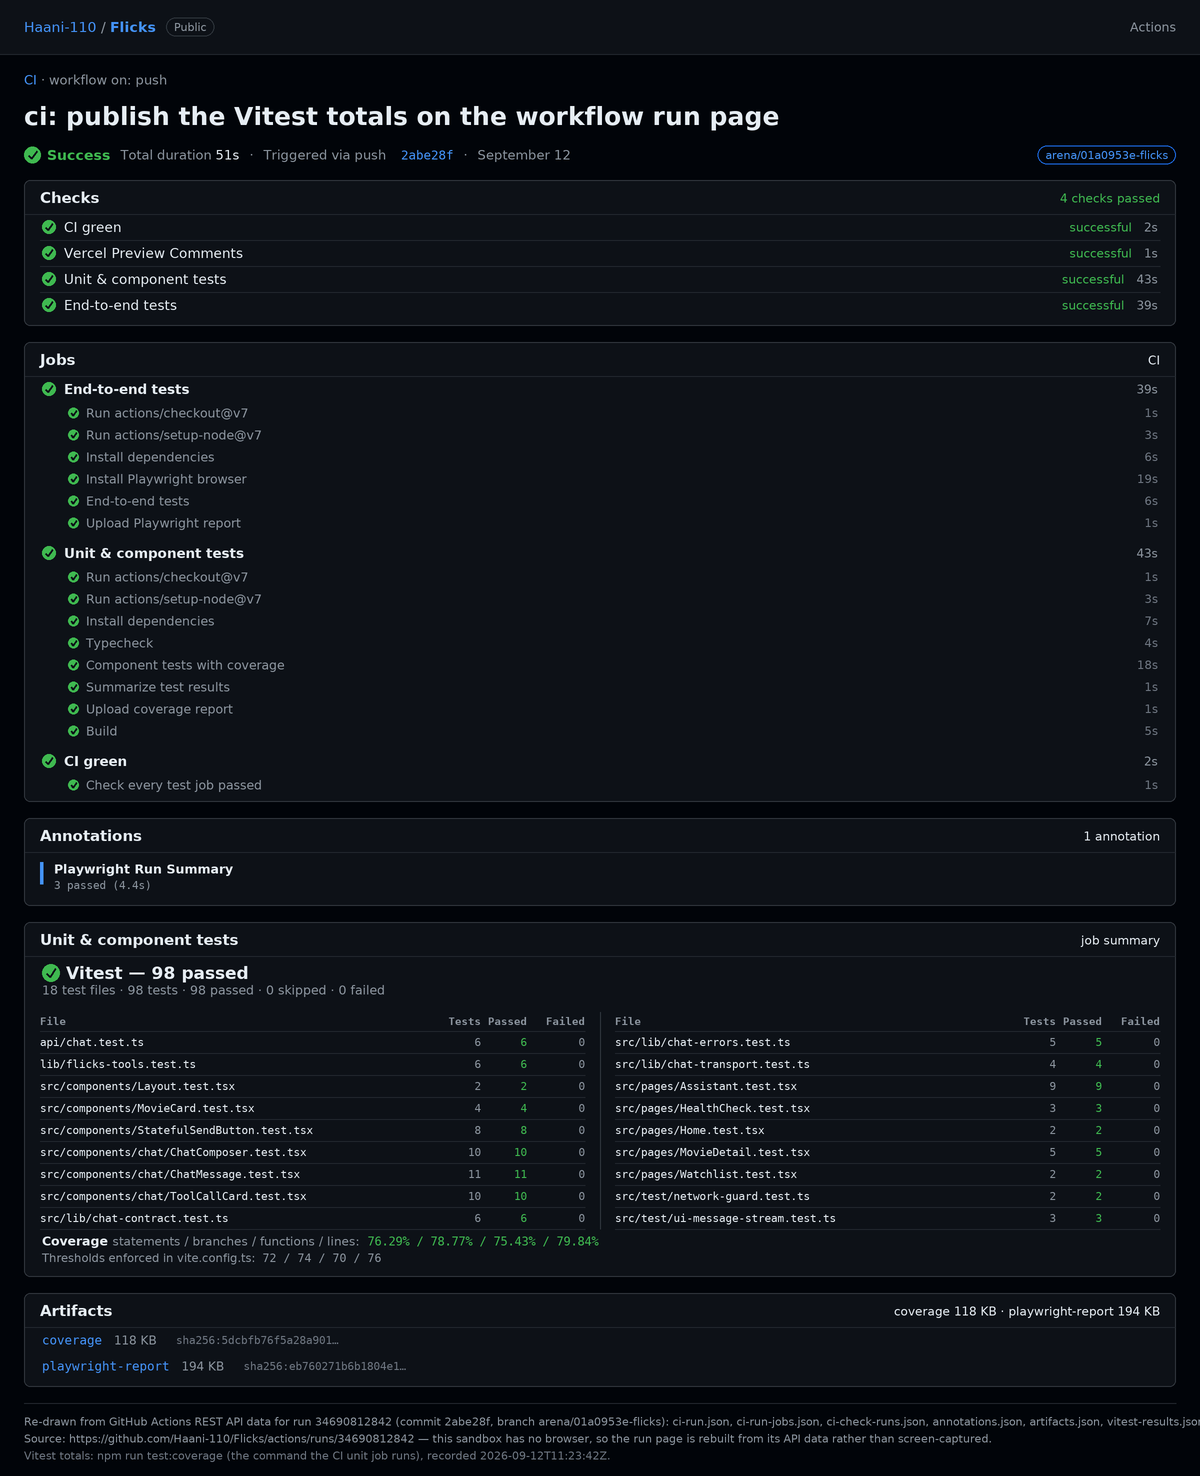
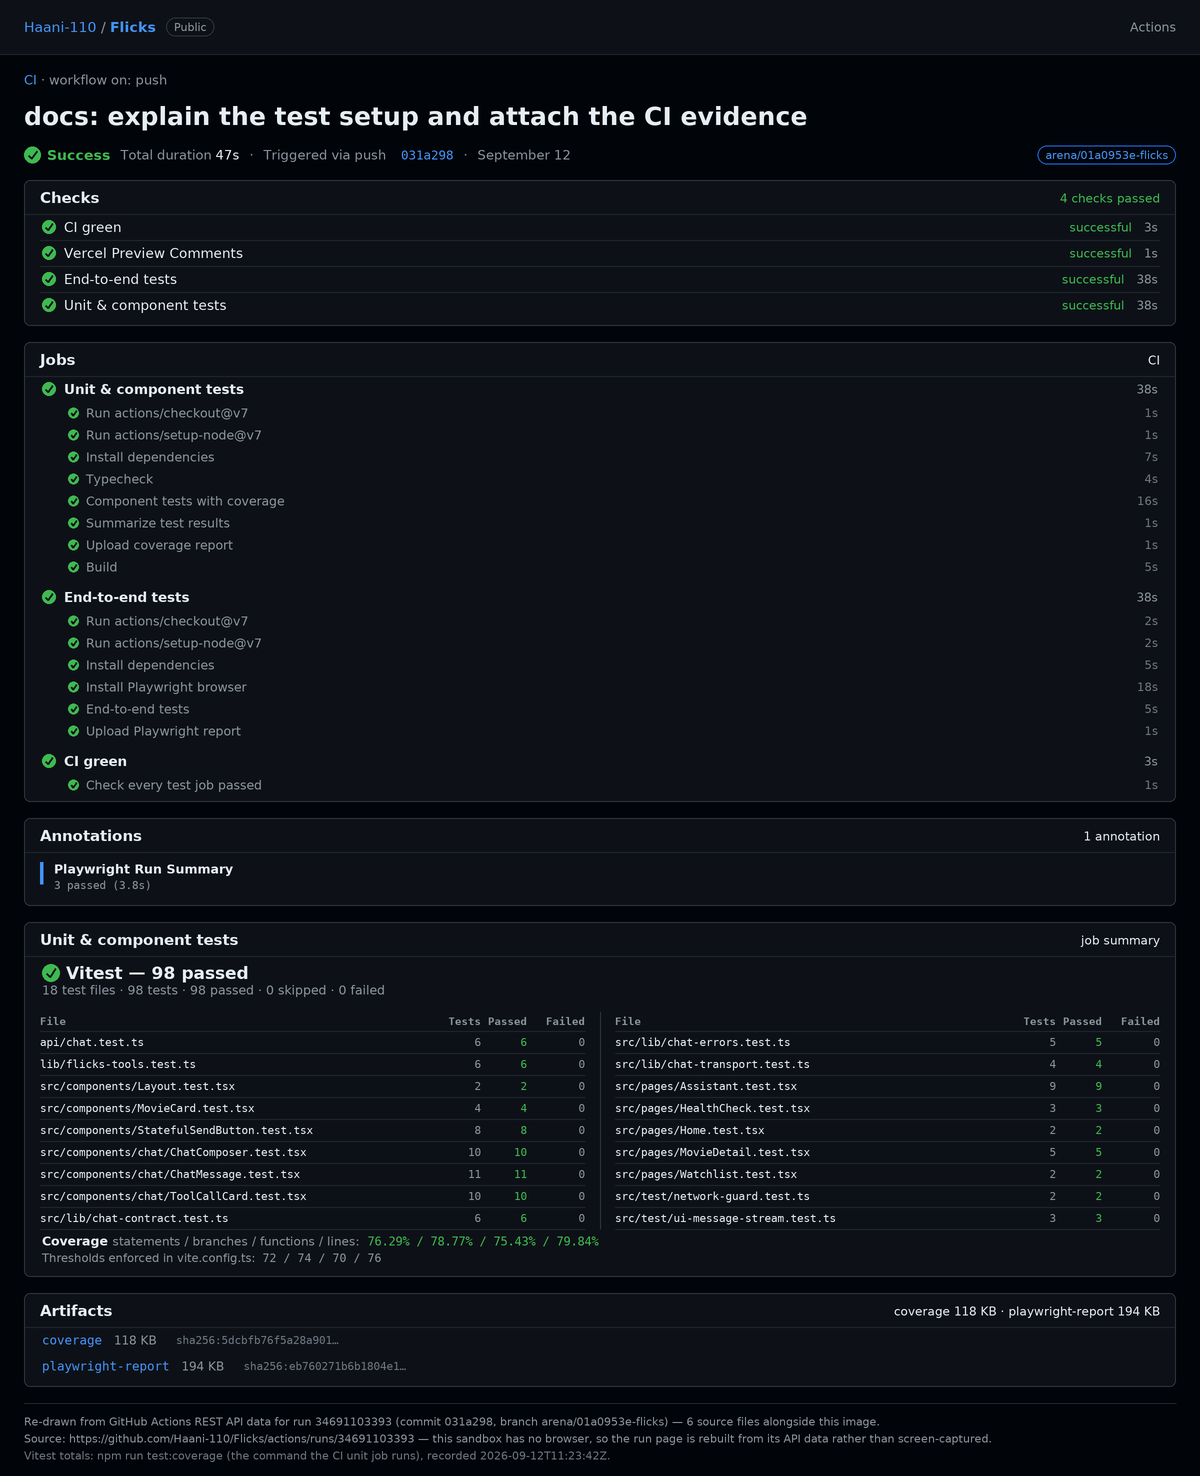
docs: refresh the evidence images for the final green run

diff --git a/docs/evidence/render-evidence.py b/docs/evidence/render-evidence.py
@@ -376,7 +376,7 @@ sources = [name for name in ("ci-run.json", "ci-run-jobs.json", "ci-check-runs.j
                              "artifacts.json", "vitest-results.json", "context.json") if (RUN_DIR / name).exists()]
 note = [
     f"Re-drawn from GitHub Actions REST API data for run {run['id']} (commit {run['head_sha'][:7]}, "
-    f"branch {run['head_branch']}): {', '.join(sources)}.",
+    f"branch {run['head_branch']}) — {len(sources)} source files alongside this image.",
     f"Source: {run['html_url']} — this sandbox has no browser, so the run page is rebuilt from its API data "
     "rather than screen-captured.",
 ]
